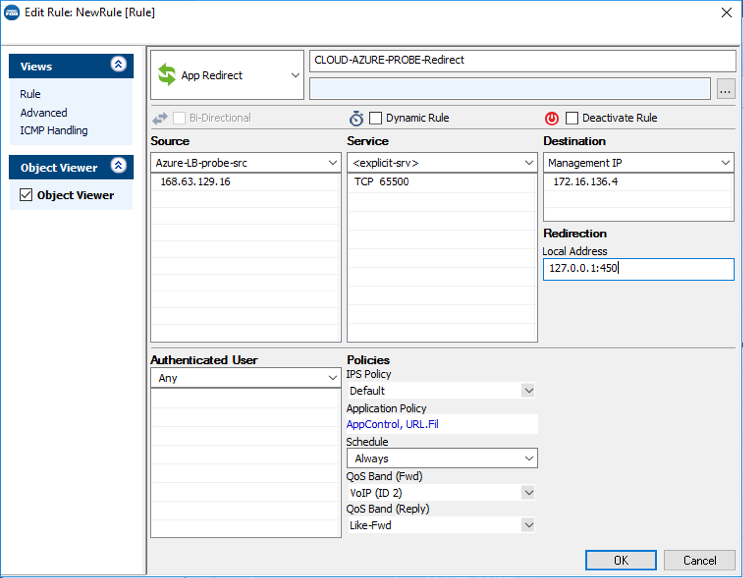
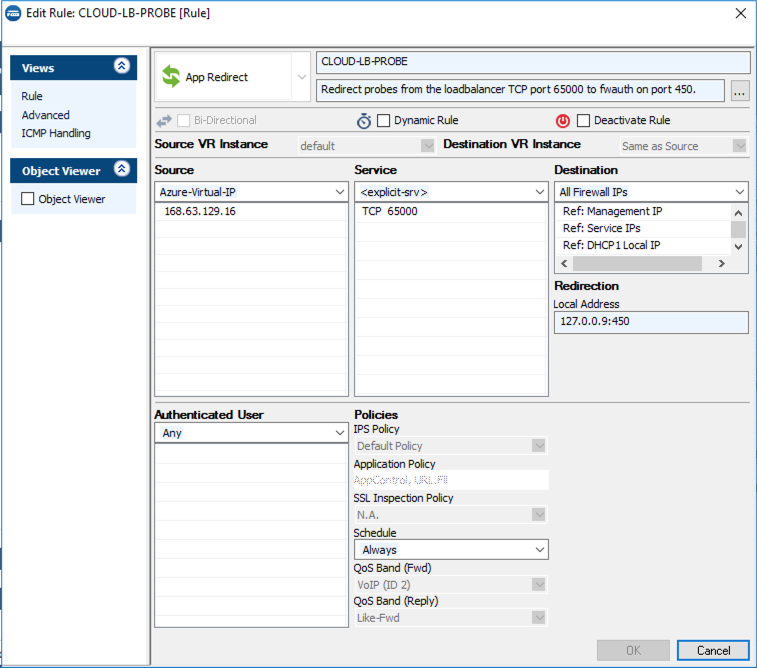
Moved probe to 65000 instead of 65500 or Tina 691.

Changed region(s): [[0.0, 0.0, 1.0, 1.0], [0.681, 0.872, 0.7429, 0.9343], [0.681, 0.654, 0.7429, 0.6851]]

diff --git a/Quickstart-Azure-CGF-HA/README.md b/Quickstart-Azure-CGF-HA/README.md
@@ -79,7 +79,8 @@ Note: The username to login to the appliance is root and the password is the one
 
 ## Post Deployment Configuration
 
-You need to create manually a firewall *App Redirect* rule for ILB Probe traffic. The connection will use the port you indicated during template deployment and it will originate from 168.63.129.16 and can be redirected to any service running locally on NGF (e.g. 127.0.0.1:450 for firewall authentication service or 127.0.0.1:691 for NGF TINA VPN)
+Starting with version 8.0 of the CGF you have a ILB probe rule called 'CLOUD-LB-PROBE' ready to go in the rulebase. You only need to activate it. You can also limit traffic to only come from the Microsoft Azure Virtual IP 168.63.129.16 for additional security.
+In older version, you need to create manually a firewall *App Redirect* rule for ILB Probe traffic. The connection will use the port you indicated during template deployment and it will originate from 168.63.129.16 and can be redirected to any service running locally on NGF (e.g. 127.0.0.1:450 for firewall authentication service or 127.0.0.1:691 for NGF TINA VPN)
 
 ![Example firewall probe redirection rule](images/ProbeFirewallRule.png)
 
